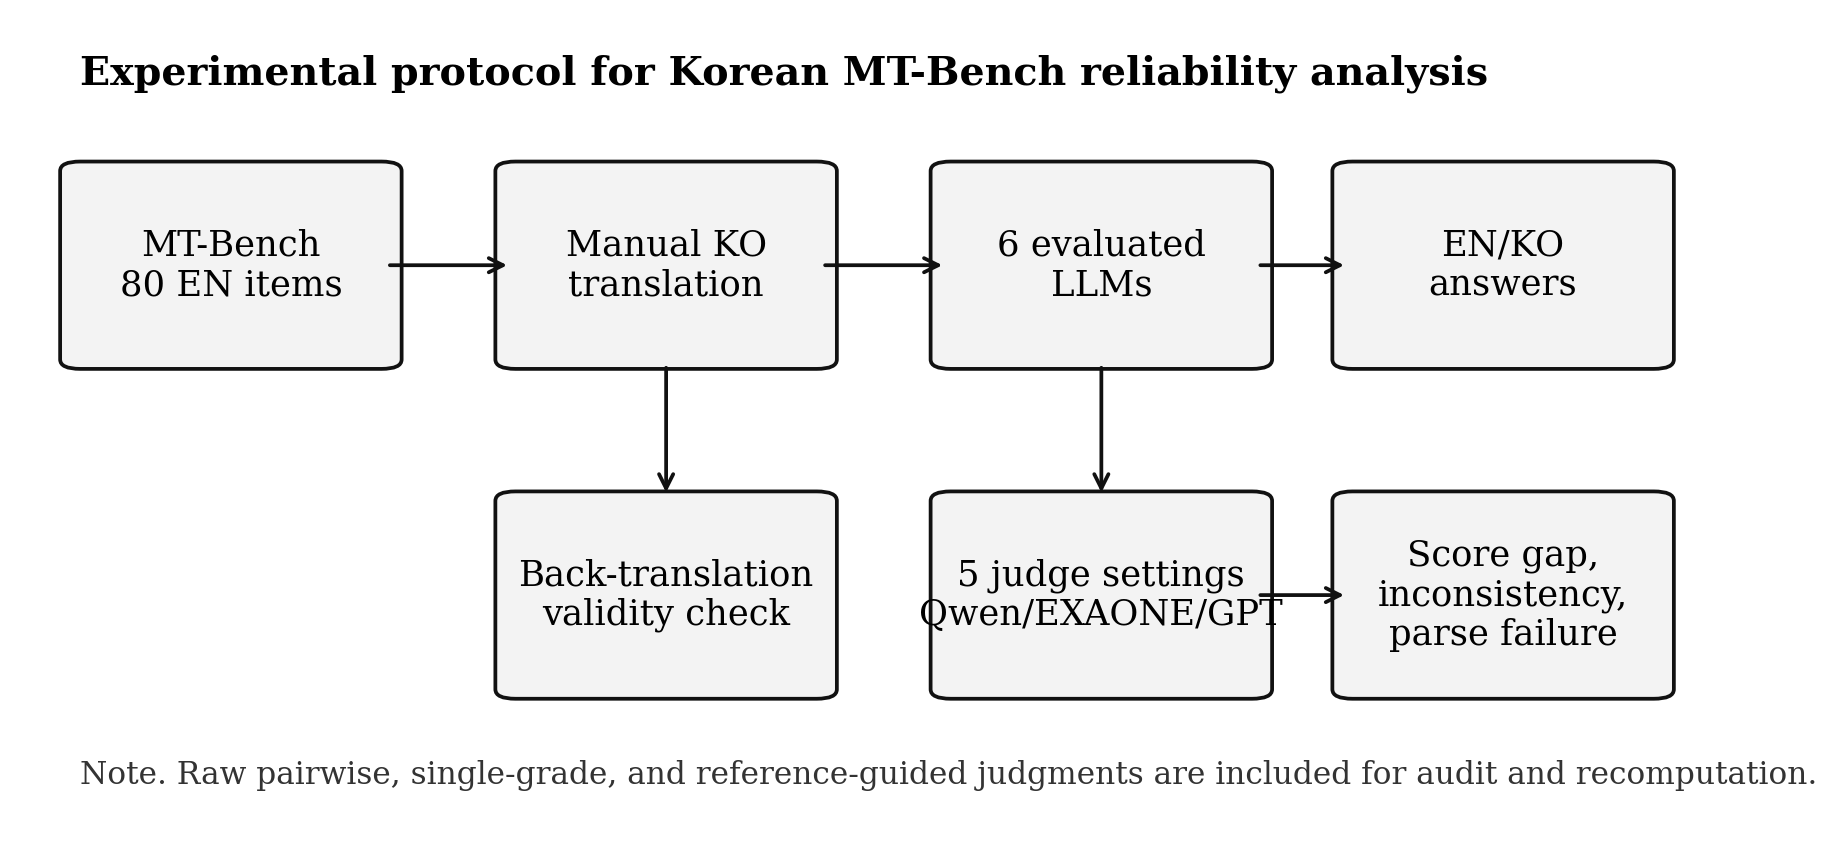
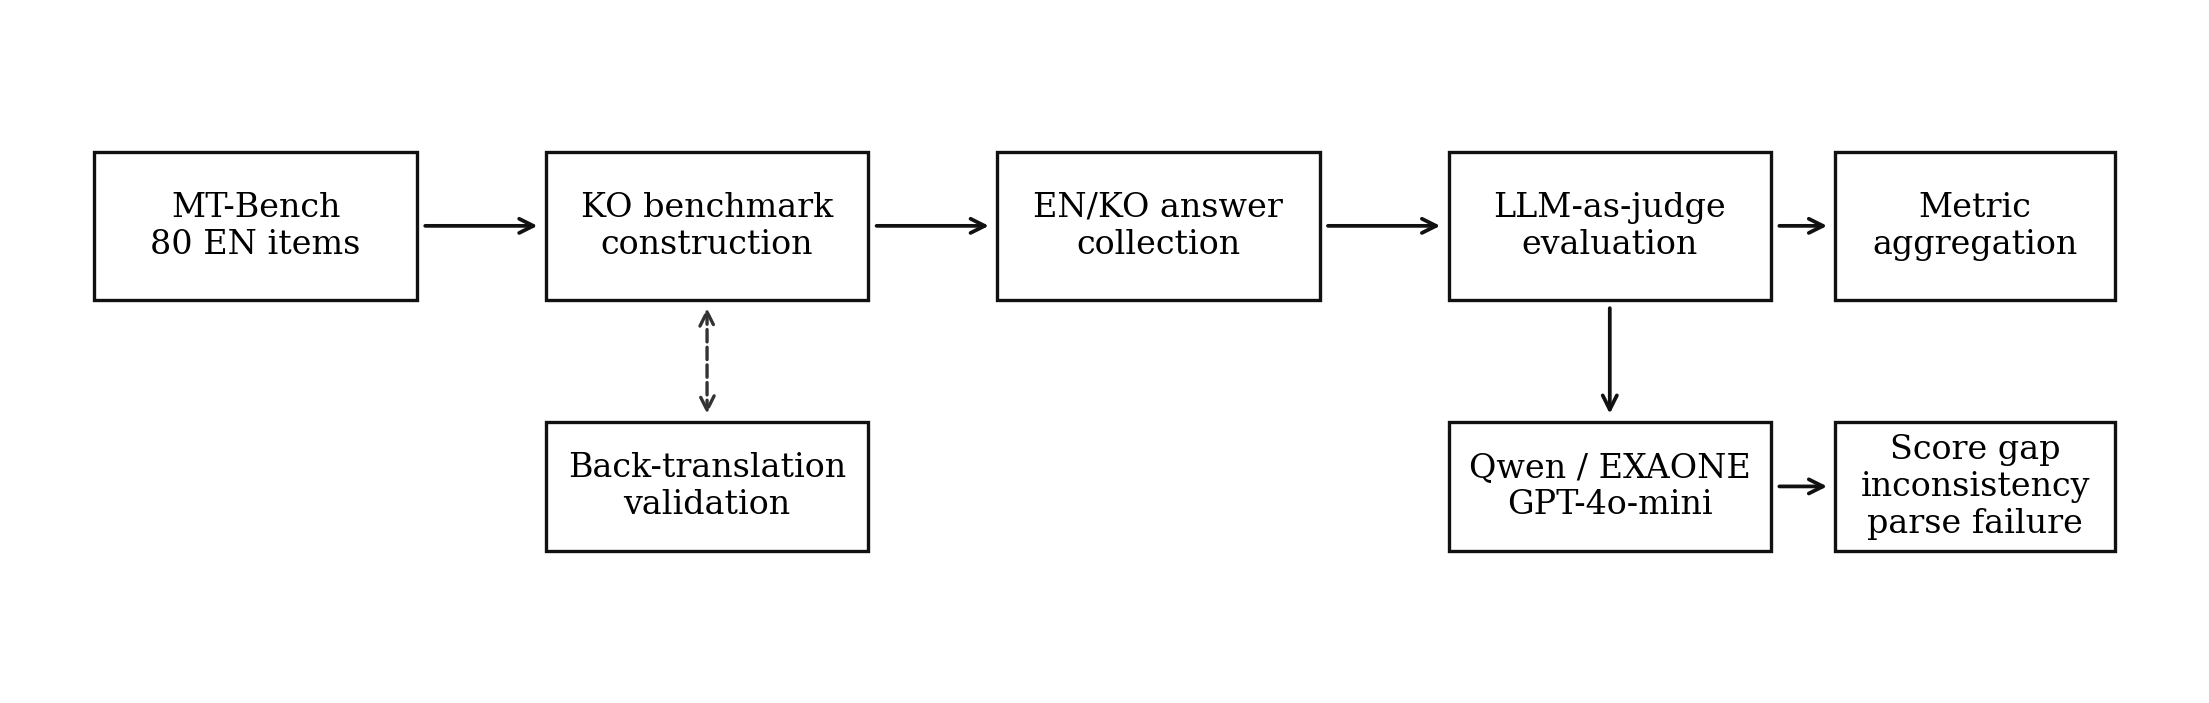
docs: restyle protocol figure for KIPS paper

diff --git a/scripts/tools/generate_figures.py b/scripts/tools/generate_figures.py
@@ -22,7 +22,7 @@ matplotlib.use("Agg")
 import matplotlib.pyplot as plt
 import numpy as np
 import pandas as pd
-from matplotlib.patches import FancyBboxPatch
+from matplotlib.patches import Rectangle
 
 
 ROOT = Path(__file__).resolve().parents[2]
@@ -148,39 +148,39 @@ def add_panel_label(ax: plt.Axes, label: str) -> None:
 
 
 def fig1_protocol() -> None:
-    fig, ax = plt.subplots(figsize=(7.2, 3.4))
+    fig, ax = plt.subplots(figsize=(7.2, 2.18))
     ax.set_axis_off()
 
     boxes = [
-        (0.03, 0.58, 0.18, 0.24, "MT-Bench\n80 EN items"),
-        (0.29, 0.58, 0.18, 0.24, "Manual KO\ntranslation"),
-        (0.55, 0.58, 0.18, 0.24, "6 evaluated\nLLMs"),
-        (0.79, 0.58, 0.18, 0.24, "EN/KO\nanswers"),
-        (0.29, 0.16, 0.18, 0.24, "Back-translation\nvalidity check"),
-        (0.55, 0.16, 0.18, 0.24, "5 judge settings\nQwen/EXAONE/GPT"),
-        (0.79, 0.16, 0.18, 0.24, "Score gap,\ninconsistency,\nparse failure"),
+        (0.03, 0.58, 0.15, 0.23, "MT-Bench\n80 EN items"),
+        (0.24, 0.58, 0.15, 0.23, "KO benchmark\nconstruction"),
+        (0.45, 0.58, 0.15, 0.23, "EN/KO answer\ncollection"),
+        (0.66, 0.58, 0.15, 0.23, "LLM-as-judge\nevaluation"),
+        (0.84, 0.58, 0.13, 0.23, "Metric\naggregation"),
+        (0.24, 0.19, 0.15, 0.20, "Back-translation\nvalidation"),
+        (0.66, 0.19, 0.15, 0.20, "Qwen / EXAONE\nGPT-4o-mini"),
+        (0.84, 0.19, 0.13, 0.20, "Score gap\ninconsistency\nparse failure"),
     ]
 
     for x, y, w, h, text in boxes:
-        patch = FancyBboxPatch(
+        patch = Rectangle(
             (x, y),
             w,
             h,
-            boxstyle="round,pad=0.012,rounding_size=0.012",
-            facecolor=MONO["pale"],
+            facecolor="white",
             edgecolor=MONO["black"],
-            linewidth=0.9,
+            linewidth=0.8,
         )
         ax.add_patch(patch)
-        ax.text(x + w / 2, y + h / 2, text, ha="center", va="center", fontsize=8.5)
+        ax.text(x + w / 2, y + h / 2, text, ha="center", va="center", fontsize=8.0)
 
     arrows = [
-        ((0.21, 0.70), (0.29, 0.70)),
-        ((0.47, 0.70), (0.55, 0.70)),
-        ((0.73, 0.70), (0.79, 0.70)),
-        ((0.38, 0.58), (0.38, 0.40)),
-        ((0.64, 0.58), (0.64, 0.40)),
-        ((0.73, 0.28), (0.79, 0.28)),
+        ((0.18, 0.695), (0.24, 0.695)),
+        ((0.39, 0.695), (0.45, 0.695)),
+        ((0.60, 0.695), (0.66, 0.695)),
+        ((0.81, 0.695), (0.84, 0.695)),
+        ((0.735, 0.58), (0.735, 0.39)),
+        ((0.81, 0.29), (0.84, 0.29)),
     ]
     for start, end in arrows:
         ax.annotate(
@@ -190,20 +190,13 @@ def fig1_protocol() -> None:
             arrowprops=dict(arrowstyle="->", color=MONO["black"], lw=0.9),
         )
 
-    ax.text(
-        0.03,
-        0.93,
-        "Experimental protocol for Korean MT-Bench reliability analysis",
-        fontsize=9.5,
-        fontweight="bold",
+    ax.annotate(
+        "",
+        xy=(0.315, 0.39),
+        xytext=(0.315, 0.58),
+        arrowprops=dict(arrowstyle="<->", color=MONO["dark"], lw=0.8, linestyle="--"),
     )
-    ax.text(
-        0.03,
-        0.04,
-        "Note. Raw pairwise, single-grade, and reference-guided judgments are included for audit and recomputation.",
-        fontsize=7.5,
-        color=MONO["dark"],
-    )
+    fig.tight_layout(pad=0.15)
     save(fig, "fig1_protocol")
 
 